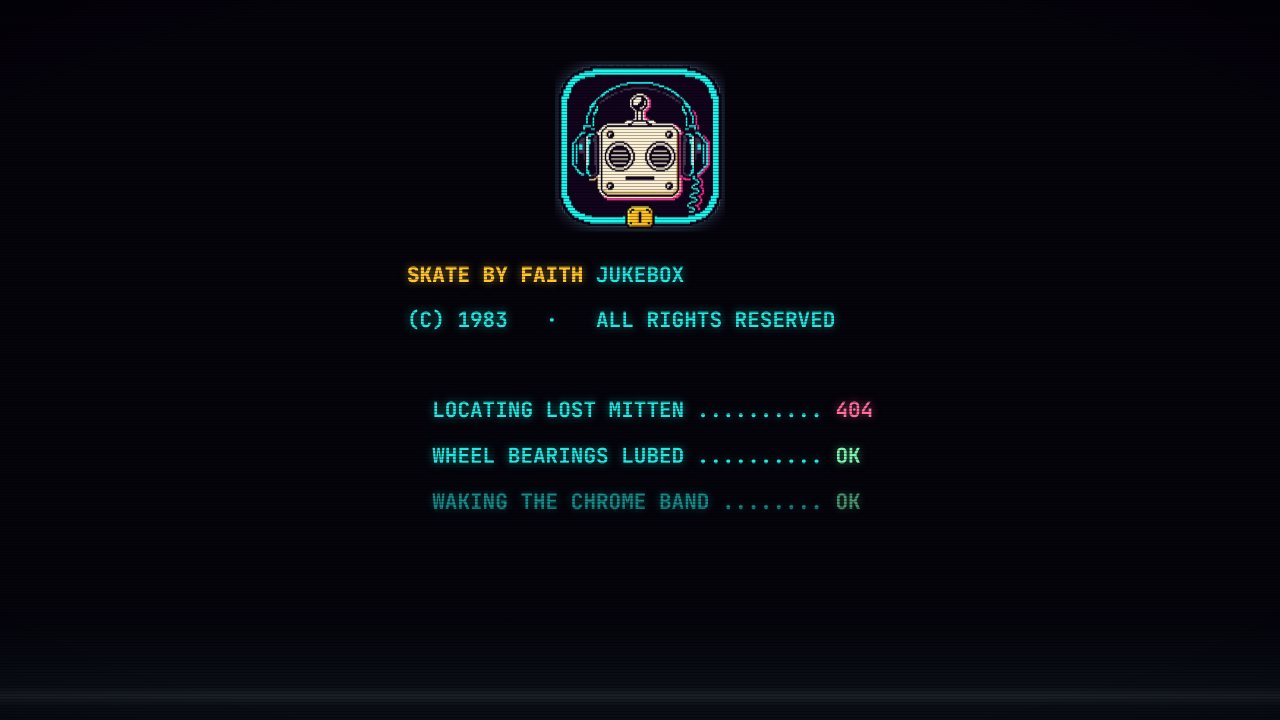
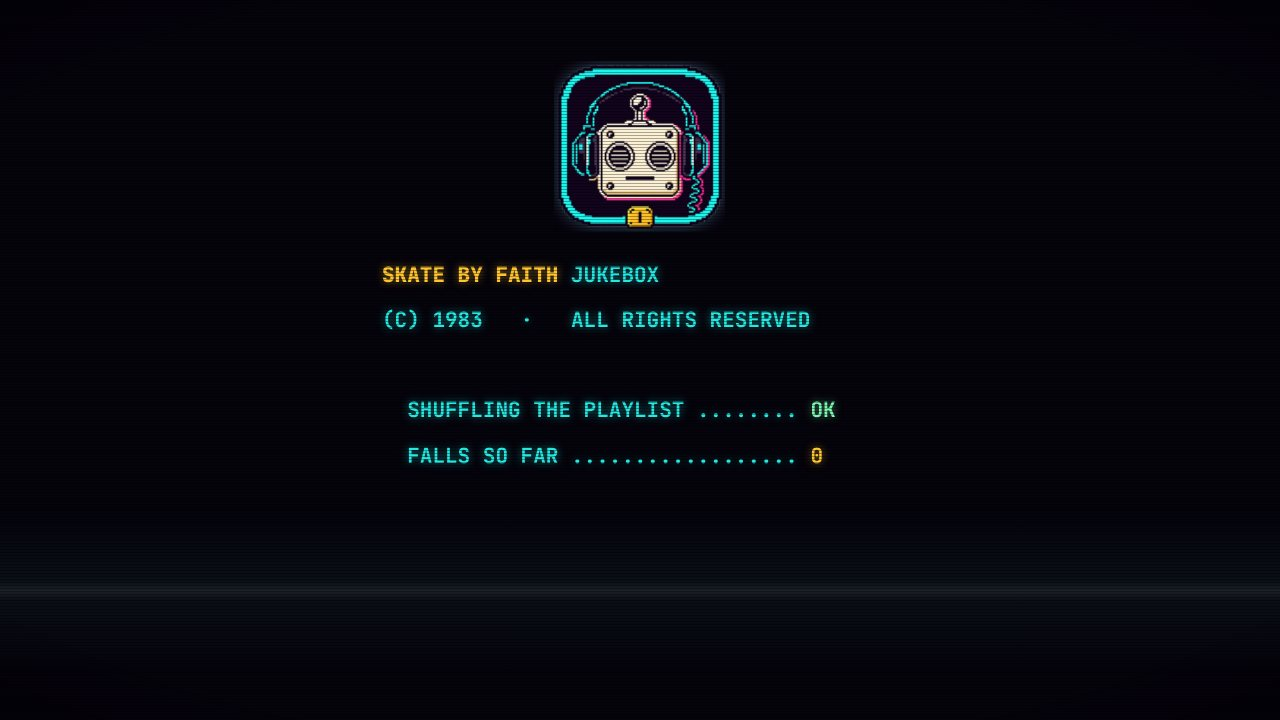
design: songs chosen by code only; drop skaters and RFAI presents
Title strips are read-only paper (no click to queue), as on a real jukebox;
the keypad and typed codes are the only way to pick. Removed the skater
silhouettes and their floor row, and RFAI PRESENTS from the INSERT COIN
screen. Docs and screenshots updated.

Claude-Session: https://claude.ai/code/session_019UepSTK4gBiwDTjkX8XKsc

diff --git a/styles.css b/styles.css
@@ -221,8 +221,8 @@ kbd{
 /* ================= RIG LAYOUT ================= */
 .rig{
   position:relative; z-index:3; height:100vh; height:100dvh;
-  display:grid; grid-template-columns:minmax(0,1fr); grid-template-rows:auto auto minmax(0,1fr) auto 1.75rem;
-  gap:.45rem; padding:.95rem 1.25rem .35rem;
+  display:grid; grid-template-columns:minmax(0,1fr); grid-template-rows:auto auto minmax(0,1fr) auto;
+  gap:.45rem; padding:.95rem 1.25rem 2.35rem;   /* the bottom strip is where the key list appears */
 }
 /* While INSERT COIN is showing, the machine waits behind it unseen */
 body.on-attract .rig{ visibility:hidden; }
@@ -471,13 +471,11 @@ body.on-attract .rig{ visibility:hidden; }
 .strip{
   --paper:linear-gradient(180deg,#E6D9BB,#D2C29E);
   display:grid; grid-template-columns:2.35rem minmax(0,1fr) auto; align-items:center; gap:.5rem;
-  width:100%; min-height:1.8rem; margin:0 0 .26rem; padding:.2rem .45rem .2rem .25rem; border:0; cursor:pointer; text-align:left;
+  width:100%; min-height:1.8rem; margin:0 0 .26rem; padding:.2rem .45rem .2rem .25rem; border:0; text-align:left;
   background:var(--paper); color:var(--sl-ink); border-radius:.2rem;
   box-shadow:0 .14rem 0 rgba(0,0,0,.55), inset 0 0 0 1px rgba(60,40,10,.25);
   transition:transform .1s var(--ease-out), box-shadow .1s var(--ease-out);
 }
-.strip:hover{ transform:translateY(-.05rem); box-shadow:0 .19rem 0 rgba(0,0,0,.55), 0 0 0 .1rem var(--cyan); }
-.strip:active{ transform:translateY(.1rem); box-shadow:0 .02rem 0 rgba(0,0,0,.55); }
 .strip-code{
   text-align:center; font-size:.74rem; line-height:1; padding:.2rem 0; align-self:center;
   background:var(--acc, var(--sl-gold)); color:var(--acc-ink, #2A1C06); border-radius:.25rem; text-shadow:none;
@@ -487,7 +485,7 @@ body.on-attract .rig{ visibility:hidden; }
 .strip.is-now{ box-shadow:0 0 0 .14rem var(--magenta), 0 .14rem 0 rgba(0,0,0,.55), 0 0 .9rem rgba(255,45,149,.5); }
 .strip.is-now .strip-aside{ color:var(--magenta-deep); }
 .strip.is-queued .strip-aside{ color:#0B6F6B; }
-.strip.is-missing{ filter:grayscale(.85); opacity:.62; cursor:not-allowed; }
+.strip.is-missing{ filter:grayscale(.85); opacity:.62; }
 .strip.is-missing .strip-title{ text-decoration:line-through; }
 .strip.is-missing .strip-aside{ color:#A31B3A; }
 
@@ -676,28 +674,10 @@ input[type="range"]::-moz-range-thumb{ width:.95rem; height:1.4rem; border:0; bo
 .crate-meter{ position:absolute; left:0; right:0; bottom:-.5rem; height:.32rem; border-radius:.2rem; background:var(--screen); overflow:hidden; box-shadow:inset 0 .08rem 0 rgba(0,0,0,.6); }
 .crate-meter i{ display:block; height:100%; transform:scaleX(0); transform-origin:left; background:var(--cyan); box-shadow:0 0 .5rem var(--cyan); transition:transform .3s linear; }
 
-/* ================= RINK FLOOR + SKATERS ================= */
-.rink-floor{ position:relative; overflow:hidden; pointer-events:none; }
-.skater{
-  position:absolute; left:0; bottom:.15rem; width:1.6rem; height:1.6rem; opacity:.75;
-  color:var(--cream); filter:drop-shadow(0 0 .15rem currentColor);
-  animation:skater-glide var(--glide, 14s) linear forwards; will-change:transform;
-}
-.skater[data-tone="cyan"]{ color:var(--cyan); }
-.skater[data-tone="magenta"]{ color:var(--magenta); }
-.skater[data-dir="rtl"]{ animation-direction:reverse; }
-.skater[data-dir="rtl"] svg{ transform:scaleX(-1); }
-.skater svg{ width:100%; height:100%; display:block; overflow:visible; }
-@keyframes skater-glide{ from{ transform:translateX(-4rem); } to{ transform:translateX(calc(100vw + 4rem)); } }
-.sk-leg-a{ animation:stride-a 1.4s ease-in-out infinite alternate; }
-.sk-leg-b{ animation:stride-b 1.4s ease-in-out infinite alternate; }
-@keyframes stride-a{ from{ transform:translateX(-3px); } to{ transform:translateX(3px); } }
-@keyframes stride-b{ from{ transform:translateX(3px); } to{ transform:translateX(-3px); } }
-
 /* ================= LEGEND, TOAST, MODAL ================= */
 .legend{
   position:fixed; z-index:30; left:50%; bottom:.75rem; transform:translate(-50%,.6rem);
-  display:flex; gap:.75rem; padding:.4rem .8rem; max-width:98vw; flex-wrap:nowrap; justify-content:center; white-space:nowrap;
+  display:flex; gap:.75rem; padding:.26rem .8rem; max-width:98vw; flex-wrap:nowrap; justify-content:center; white-space:nowrap;
   background:rgba(12,5,22,.94); border:1px solid var(--cab-edge); border-radius:.7rem; box-shadow:var(--drop);
   font-size:.7rem; font-weight:700; color:var(--cream); opacity:0; pointer-events:none;
   transition:opacity .4s ease, transform .4s var(--ease-out);
@@ -726,7 +706,6 @@ input[type="range"]::-moz-range-thumb{ width:.95rem; height:1.4rem; border:0; bo
 .attract.is-leaving{ opacity:0; transform:scale(1.04); pointer-events:none; }
 .attract-inner{ display:flex; flex-direction:column; align-items:center; gap:.9rem; }
 .attract-logo{ width:9.5rem; height:9.5rem; filter:drop-shadow(0 0 .8rem rgba(37,232,226,.4)); }
-.attract-presents{ font:700 .95rem var(--font-mono); letter-spacing:.38em; text-transform:uppercase; color:var(--cream); }
 .attract-title{
   font-family:var(--font-display); font-size:5.2rem; line-height:1; text-transform:uppercase; white-space:nowrap; color:#fff;
 }
@@ -819,8 +798,7 @@ html[data-lights="calm"] *::after{
   animation:none !important;
   transition:none !important;
 }
-html[data-lights="calm"] .boot,
-html[data-lights="calm"] .skater{ display:none !important; }
+html[data-lights="calm"] .boot{ display:none !important; }
 html[data-lights="calm"] .attract-coin{ color:var(--ink); }
 html[data-lights="calm"] .synth-grid{ opacity:.12; }
 html[data-lights="calm"] .attract.is-leaving{ transform:none; }

diff --git a/visualiser.js b/visualiser.js
@@ -9,7 +9,6 @@
      - the two BUBBLE TUBES (canvas), which also speed up with the music
      - the grid speed and the bulb chase speed (animation playbackRate)
      - the soft BASS PULSE on the cabinet glow (one element's opacity)
-     - the roller-skater silhouettes that glide along the bottom edge
      - the mirror-ball light spots
 
    Rules this file lives by:
@@ -407,45 +406,4 @@ export function buildMirrorLight(container, count = 7) {
     spot.dataset.tone = i % 3 === 0 ? 'cyan' : i % 3 === 1 ? 'magenta' : 'cream';
     container.append(spot);
   }
-}
-
-/* ============================================================
-   SKATERS - neon-outline roller skaters now and then glide along the
-   rink floor. At most two at once, each removed when it finishes.
-   ============================================================ */
-export function createSkaters(floor) {
-  const tpl = document.getElementById('skater-tpl');
-  let timer = 0;
-  let attract = false;
-  let active = 0;
-
-  function spawn() {
-    if (isCalm() || document.hidden || !tpl || active >= 2) return;
-    active += 1;
-    const holder = document.createElement('div');
-    holder.className = 'skater';
-    const dir = Math.random() < 0.5 ? 'ltr' : 'rtl';
-    holder.dataset.dir = dir;
-    holder.dataset.tone = ['cyan', 'magenta', 'cream'][Math.floor(Math.random() * 3)];
-    const dur = 11 + Math.random() * 7;
-    holder.style.setProperty('--glide', `${dur.toFixed(1)}s`);
-    holder.append(tpl.content.firstElementChild.cloneNode(true));
-    let removed = false;
-    const remove = () => { if (removed) return; removed = true; holder.remove(); active -= 1; };
-    holder.addEventListener('animationend', (e) => { if (e.animationName === 'skater-glide') remove(); });
-    setTimeout(remove, (dur + 4) * 1000);                          // failsafe
-    floor.append(holder);
-  }
-
-  function schedule() {
-    clearTimeout(timer);
-    const [min, max] = attract ? [6000, 14000] : [22000, 52000];
-    timer = setTimeout(() => { safely('skater', spawn); schedule(); }, min + Math.random() * (max - min));
-  }
-
-  return {
-    start() { schedule(); setTimeout(() => safely('skater', spawn), 3500); },
-    setAttract(on) { attract = on; schedule(); },
-    clear() { floor.replaceChildren(); active = 0; },
-  };
 }

diff --git a/app.js b/app.js
@@ -24,7 +24,7 @@ import { unlockAudio, setMusicLevel, setSfxLevel } from './audio.js';
 import { sfx } from './sound.js';
 import { createPlayer, probeAll } from './player.js';
 import { createMechanism } from './mechanism.js';
-import { createVisualiser, buildMirrorLight, createSkaters } from './visualiser.js';
+import { createVisualiser, buildMirrorLight } from './visualiser.js';
 import { createUI, createTicker } from './ui.js';
 import {
   keepAwake, setupMediaSession, updateMediaSession, registerServiceWorker,
@@ -110,7 +110,6 @@ async function main() {
     getStatus,
     handlers: {
       openVolume: (id) => { ui.renderStrips(id); scheduleRender(); },
-      pickTrack: (id) => { noteInput(); requestTrack(id); },
       keyPressed: (key) => { noteInput(); keyPressed(key); },
       moveUp: (i) => { queue = moveUp(queue, i); sfx.key(); afterQueueChange(); },
       cancel: (i) => { queue = cancelAt(queue, i); sfx.key(); afterQueueChange(); },
@@ -126,7 +125,6 @@ async function main() {
   ui.setNow(null);
   ui.renderQueue([], null);
   buildMirrorLight($('mirror-light'));
-  const skaters = createSkaters($('rink-floor'));
 
   if (problems.length) {
     const btn = $('btn-problems');
@@ -626,7 +624,6 @@ async function main() {
   function enterAttract() {
     attractOn = true;
     document.body.classList.add('is-attract');
-    skaters.setAttract(true);
     ticker.restart();
     const spin = () => {
       const buttons = [...document.querySelectorAll('.rack-sleeve')];
@@ -645,7 +642,6 @@ async function main() {
   function exitAttract() {
     attractOn = false;
     document.body.classList.remove('is-attract');
-    skaters.setAttract(false);
     clearInterval(attractTimer);
     document.querySelectorAll('.rack-sleeve.is-spotlight').forEach((b) => b.classList.remove('is-spotlight'));
     mech.clearIdleCover();
@@ -829,7 +825,6 @@ async function main() {
     setTimeout(() => { attractScreen.hidden = true; }, isCalm() ? 0 : 520);
     keepAwake();
     ensureHouseNext();
-    skaters.start();
     ticker.start();
     showLegend();
     scheduleRender();

diff --git a/index.html b/index.html
@@ -40,7 +40,6 @@
 <button class="attract" id="attract" type="button" aria-label="Skate by Faith, Not by Sight. Insert coin to start." hidden>
   <span class="attract-inner">
     <img class="attract-logo" src="rfai-logo.png" width="512" height="512" alt="RFAI">
-    <span class="attract-presents">RFAI presents</span>
     <span class="attract-title"><span>Skate</span> <span class="by">by</span> <span>Faith</span></span>
     <span class="attract-tagline">Not by Sight &mdash; An 80s Rollerskate Night</span>
     <span class="attract-coin">INSERT COIN</span>
@@ -180,7 +179,6 @@
     </div>
   </footer>
 
-  <div class="rink-floor" id="rink-floor" aria-hidden="true"></div>
 </div>
 
 <!-- keyboard legend: shows for a few seconds, press ? to bring it back -->
@@ -205,19 +203,6 @@
     <button type="button" class="btn btn-deck" id="problems-close">CLOSE</button>
   </div>
 </div>
-
-<template id="skater-tpl">
-  <svg viewBox="0 0 120 120" width="120" height="120" aria-hidden="true" focusable="false">
-    <g class="sk-body" fill="none" stroke="currentColor" stroke-width="5" stroke-linecap="round" stroke-linejoin="round">
-      <circle cx="60" cy="20" r="11"/>
-      <path d="M60 33 L58 66"/>
-      <path d="M59 42 L38 56"/>
-      <path d="M59 42 L82 50"/>
-      <g class="sk-leg-a"><path d="M58 66 L42 90 L28 96"/><circle cx="22" cy="108" r="5"/><circle cx="40" cy="108" r="5"/></g>
-      <g class="sk-leg-b"><path d="M58 66 L74 86 L92 92"/><circle cx="80" cy="108" r="5"/><circle cx="98" cy="108" r="5"/></g>
-    </g>
-  </svg>
-</template>
 
 <script type="module" src="neon.js"></script>
 <script type="module" src="app.js"></script>

diff --git a/ui.js b/ui.js
@@ -113,10 +113,11 @@ export function createUI({ library, getStatus, handlers }) {
       return;
     }
     for (const t of list) {
-      const row = el('button', {
-        class: 'strip', type: 'button', role: 'listitem', title: t.title,
+      // Read-only, like the title strips in a real jukebox: you read the code
+      // here and punch it in on the keypad. Strips are not clickable.
+      const row = el('div', {
+        class: 'strip', role: 'listitem', title: t.title,
         dataset: { track: t.id },
-        onclick: () => handlers.pickTrack(t.id),
       },
         el('span', { class: 'strip-code led' }, t.code),
         el('span', { class: 'strip-title' }, t.title),

diff --git a/DESIGN.md b/DESIGN.md
@@ -130,8 +130,8 @@ The first build had every effect at full strength and read as "everything has
 been added". The rule now is **one machine, quietly lit**: the cabinet, the
 record changer and the readouts carry the show; the world around it stays dim.
 
-- Removed: the RFAI PRESENTS tab in the header, the hanging mirror ball, the
-  outrun sun, the bloom around the marquee sign and bubble tubes, the platter glow.
+- Removed: RFAI PRESENTS (header tab and INSERT COIN screen), the roller-skater
+  silhouettes, the hanging mirror ball, the outrun sun, the bloom around the marquee sign and bubble tubes, the platter glow.
 - Dimmed to trivia's levels: the rolling grid (opacity 0.16, lowest band only,
   7 s per cell, music speeds it up to 1.6x at most), stars (gutters only), the
   horizon line, the bass swell (0.14-0.34), mirror-light spots (7, half as bright,
@@ -145,6 +145,10 @@ record changer and the readouts carry the show; the world around it stays dim.
   (17 s cap, 18 s CSS failsafe). Header line: SKATE BY FAITH JUKEBOX.
 - VU meters: landscape windows; the scale and the needle's pivot are computed
   from the smaller side so nothing is ever cut off.
+
+- Selection is by code only (keypad or keyboard). The title strips are read-only
+  paper, as on a real Wurlitzer/Seeburg; the album sleeves still open a volume's
+  strips for reading.
 
 Before adding anything new, ask what it replaces.
 
@@ -184,12 +188,11 @@ bubble tubes that speed up with the music, grid scroll speed and bulb chase spee
 (`playbackRate` of the CSS animations), and a soft bass swell on the cabinet glow.
 
 **Ambient:** a few faint mirror-ball light spots drifting *behind* the cabinet (CSS
-transform only), roller-skater neon silhouettes gliding along the rink floor
-every 20-50 s (at most two at once), the LED ticker scrolling NOW PLAYING / UP
+transform only), the LED ticker scrolling NOW PLAYING / UP
 NEXT / announcer lines, bubble tubes colour-cycling over 48 s.
 
 **Idle attract mode:** after 60 s with no input the machine runs a light show:
-bulbs chase faster, skaters appear more often, the rack sleeves take turns
+bulbs chase faster, the rack sleeves take turns
 lifting, the ticker mixes in attract lines. Any input ends it.
 
 **Coin:** a cream coin drops into the slot, clunk + ring, the credits counter
@@ -205,7 +208,7 @@ LED reads **FREE PLAY** (real arcade term).
 - One shared animation loop; it stops when the tab is hidden and when lights
   are CALM. Music never depends on it.
 - WAAPI animations are cancelled when their sequence ends (no accumulating
-  `fill: forwards` animations). Skater elements remove themselves. Decks reuse
+  `fill: forwards` animations). Decks reuse
   two `<audio>` elements and revoke each Blob URL when a song is replaced.
 - Soak-tested: see "Verification" in README.
 
@@ -231,7 +234,7 @@ Audit list - every `@keyframes` in `styles.css` and its rate:
 `crt-roll` 6.5 s, `star-twinkle` 7 s, `grid-scroll` 3.4 s (movement), `bulb-chase`
 1.6 s (small dots moving), `neon-flicker-a/b/c` 7-14 s with 1-2 dips,
 `ball-turn` 9 s, `record-spin` 1.8 s, `dot-pulse` 1.2 s (small LED),
-`skater-glide` 11-18 s, `stride-*` 1.4 s (movement), `attract-blink` 1.15 s,
+`attract-blink` 1.15 s,
 `coin-drop` once, `score-pop` once, boot sequence once per tab.
 
 ### Calm lights (`prefers-reduced-motion` and the on-screen switch)
@@ -245,7 +248,7 @@ Audit list - every `@keyframes` in `styles.css` and its rate:
   JavaScript effects ask `isCalm()` and jump to the finished picture:
   the changer shows the record already on the platter, the ticker holds still
   text (swapped every 8 s), the visualisers draw one quiet still frame, the
-  skaters and the boot sequence are skipped, the mirror-light spots hold still.
+  the boot sequence is skipped, the mirror-light spots hold still.
 - Every animation has a calm equivalent; a new animation must add both halves.
 - Functional readouts (the clock, the progress tube, the queue) still update in
   calm - they are information, not decoration.
@@ -361,7 +364,7 @@ from 10 metres). Everything about reading and validating that file lives in
 | `sound.js` | Synthesised effects |
 | `player.js` | Two audio decks, fades, gapless-feel, probing |
 | `mechanism.js` | The record changer animation |
-| `visualiser.js` | Shared loop, canvases, mirror light, skaters |
+| `visualiser.js` | Shared loop, canvases, mirror light |
 | `ui.js` | Rack, strips, queue, keypad, readouts, ticker |
 | `fx.js` | Calm switch, boot sequence, count-up |
 | `neon.js` | Desynced neon flicker |

diff --git a/README.md b/README.md
@@ -215,9 +215,11 @@ INSERT COIN -> START. The queue starts empty (the house rotation fills the gap).
 
 - **START** begins with the house rotation. It does **not** start automatically,
   so you can test volume first.
-- **Pick a song** by clicking its strip in **The Rack**, or by typing its code on
-  the on-screen keypad (letter, number, then **SELECT**), or on your keyboard
-  (for example `B`, `1`, `Enter`). The chosen song joins **UP NEXT**.
+- **Pick a song by its code only**, like a real jukebox: find it in **The Rack**
+  (click an album sleeve to see its title strips), then punch the code into the
+  on-screen keypad (letter, number, then **SELECT**) or type it on the keyboard
+  (for example `B`, `1`, `Enter`). The title strips are for reading only -
+  clicking a strip does nothing. The chosen song joins **UP NEXT**.
 - UP NEXT plays **first in, first out**. Use the arrows to move a song up and the
   cross to remove one.
 - When UP NEXT is empty, the **house rotation** picks the next song itself, so the
@@ -309,7 +311,7 @@ sub-path):
 - `npm test` - 56 tests, all passing (queue, codes, `tracks.js` validation,
   house rotation and shuffle deck, in-order mode, copy pools, audio maths,
   lights switch, CSS safety rules).
-- Boot, INSERT COIN, selection by keyboard / keypad / strip, UP NEXT, house
+- Boot, INSERT COIN, selection by keyboard / keypad code, UP NEXT, house
   rotation, record changer frames, now-playing readouts, idle attract mode.
 - Natural song change: about 40 ms between songs. Skip: about 1.2-1.4 s (the
   record changer working). Pause / resume, volume keys.
